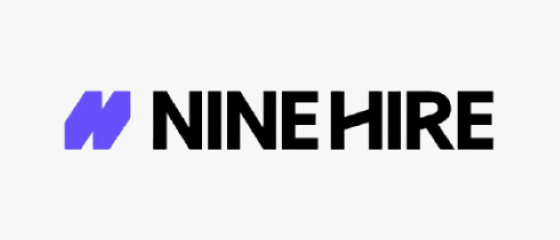
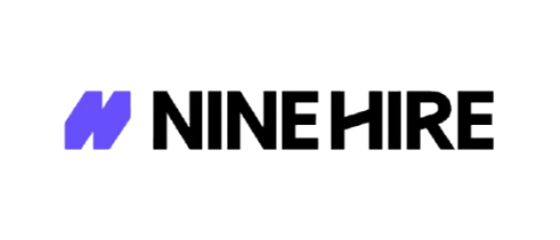
fix: 후원사를 elice·NineHire·surfit 세 곳으로 정리
- recruit.ts: sponsors 목록에서 Gather·F-Lab·FastFive·Adelab·직행을 빼고 surfit 추가
- 전달받은 시안으로 sponsor-elice·sponsor-ninehire 교체, sponsor-surfit 신규 (560x240)
- 쓰지 않게 된 로고 5개 삭제

diff --git a/src/constant/recruit.ts b/src/constant/recruit.ts
@@ -436,11 +436,7 @@ export const RECRUIT: RecruitConfig = {
   /** 운영진 요청: 로고·목록은 현행 유지. "후원사는 나중에 수정하겠다". */
   sponsors: [
     { name: 'elice', logo: '/images/19th/home/sponsor-elice.png' },
-    { name: 'Gather', logo: '/images/19th/home/sponsor-gather.png' },
-    { name: 'F-Lab', logo: '/images/19th/home/sponsor-f-lab.png' },
-    { name: 'FastFive', logo: '/images/19th/home/sponsor-fastfive.png' },
-    { name: 'Adelab', logo: '/images/19th/home/sponsor-adelab.png' },
-    { name: '직행', logo: '/images/19th/home/sponsor-zighang.png' },
     { name: 'NineHire', logo: '/images/19th/home/sponsor-ninehire.png' },
+    { name: 'surfit', logo: '/images/19th/home/sponsor-surfit.png' },
   ],
 };

diff --git a/src/features/Main/sections/v19/SponsorsSection.tsx b/src/features/Main/sections/v19/SponsorsSection.tsx
@@ -11,7 +11,6 @@ import { RECRUIT } from '~/constant/recruit';
 import { colors } from '~/styles/colors';
 import { theme } from '~/styles/theme';
 
-// 운영진 요청으로 후원사 로고·목록은 이번 기수에서도 바꾸지 않는다.
 const SPONSORS = RECRUIT.sponsors;
 
 export const SponsorsSection = () => {
